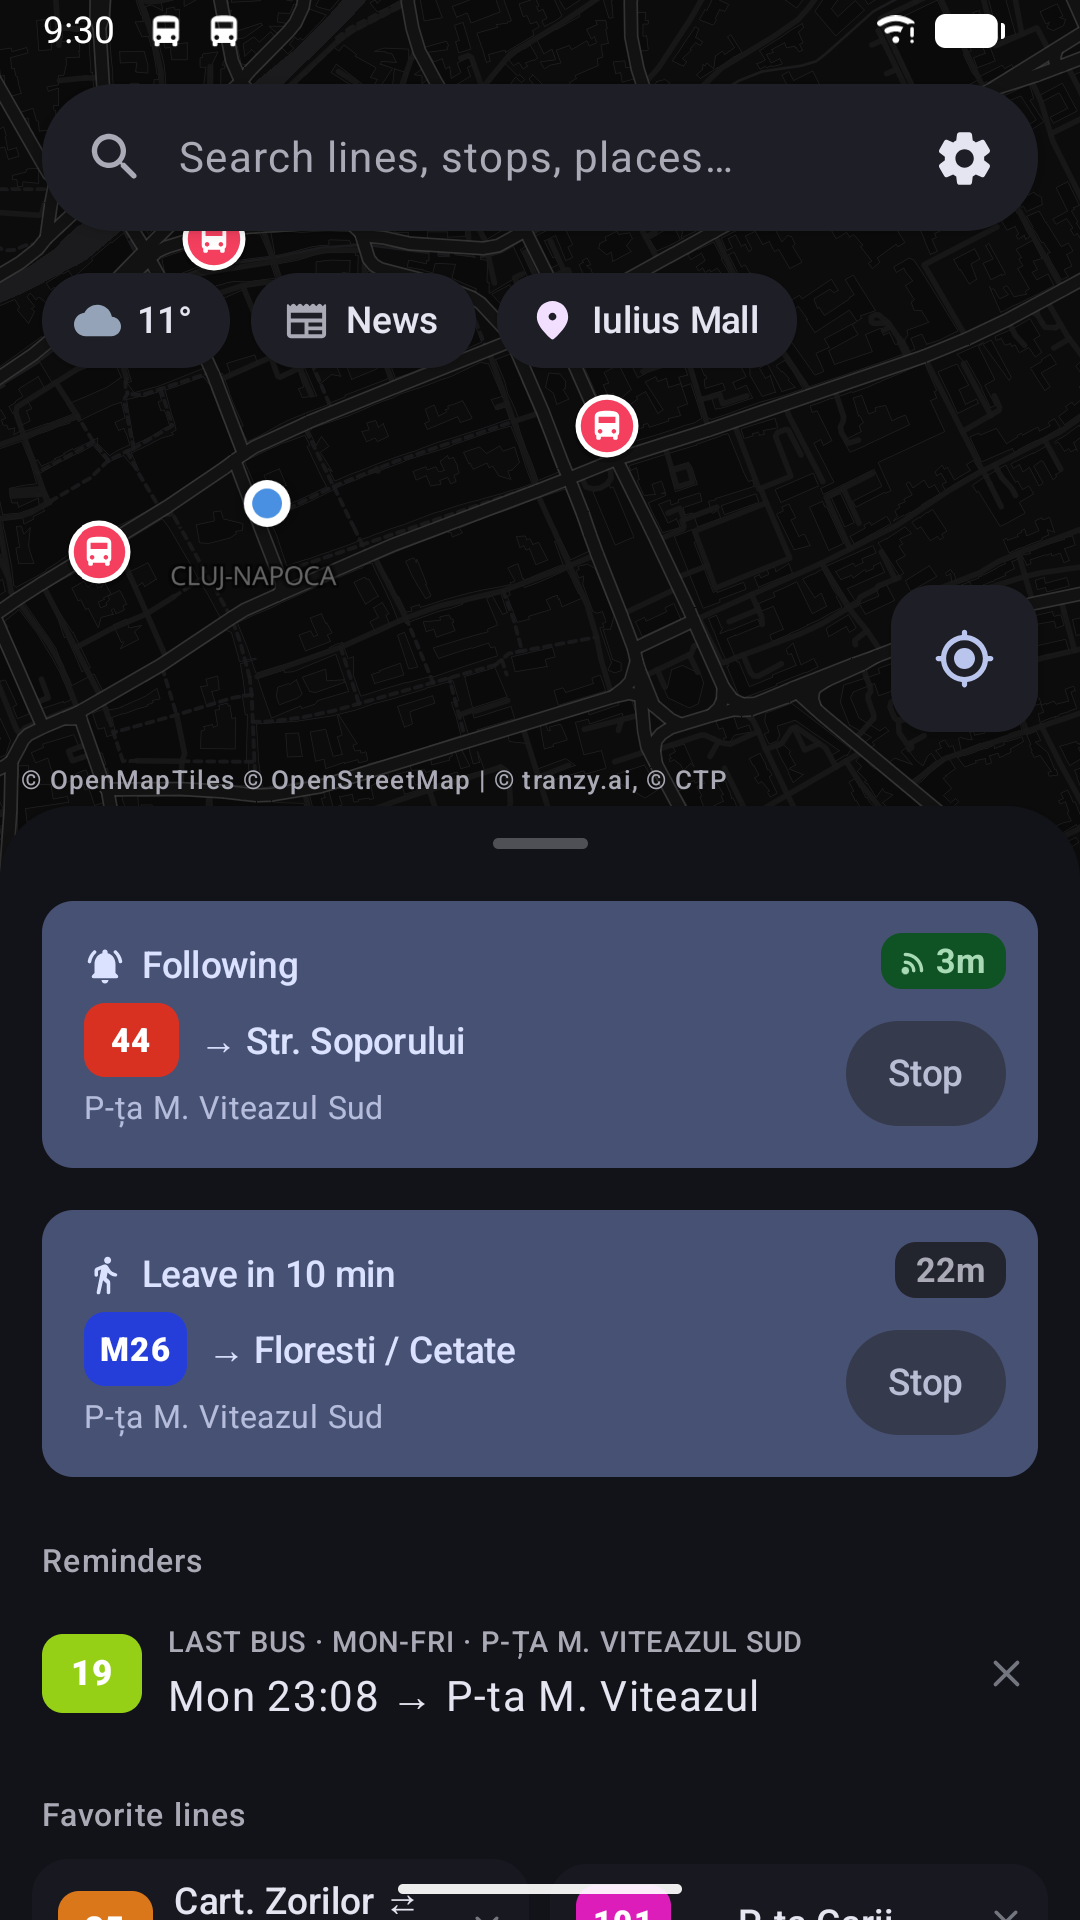
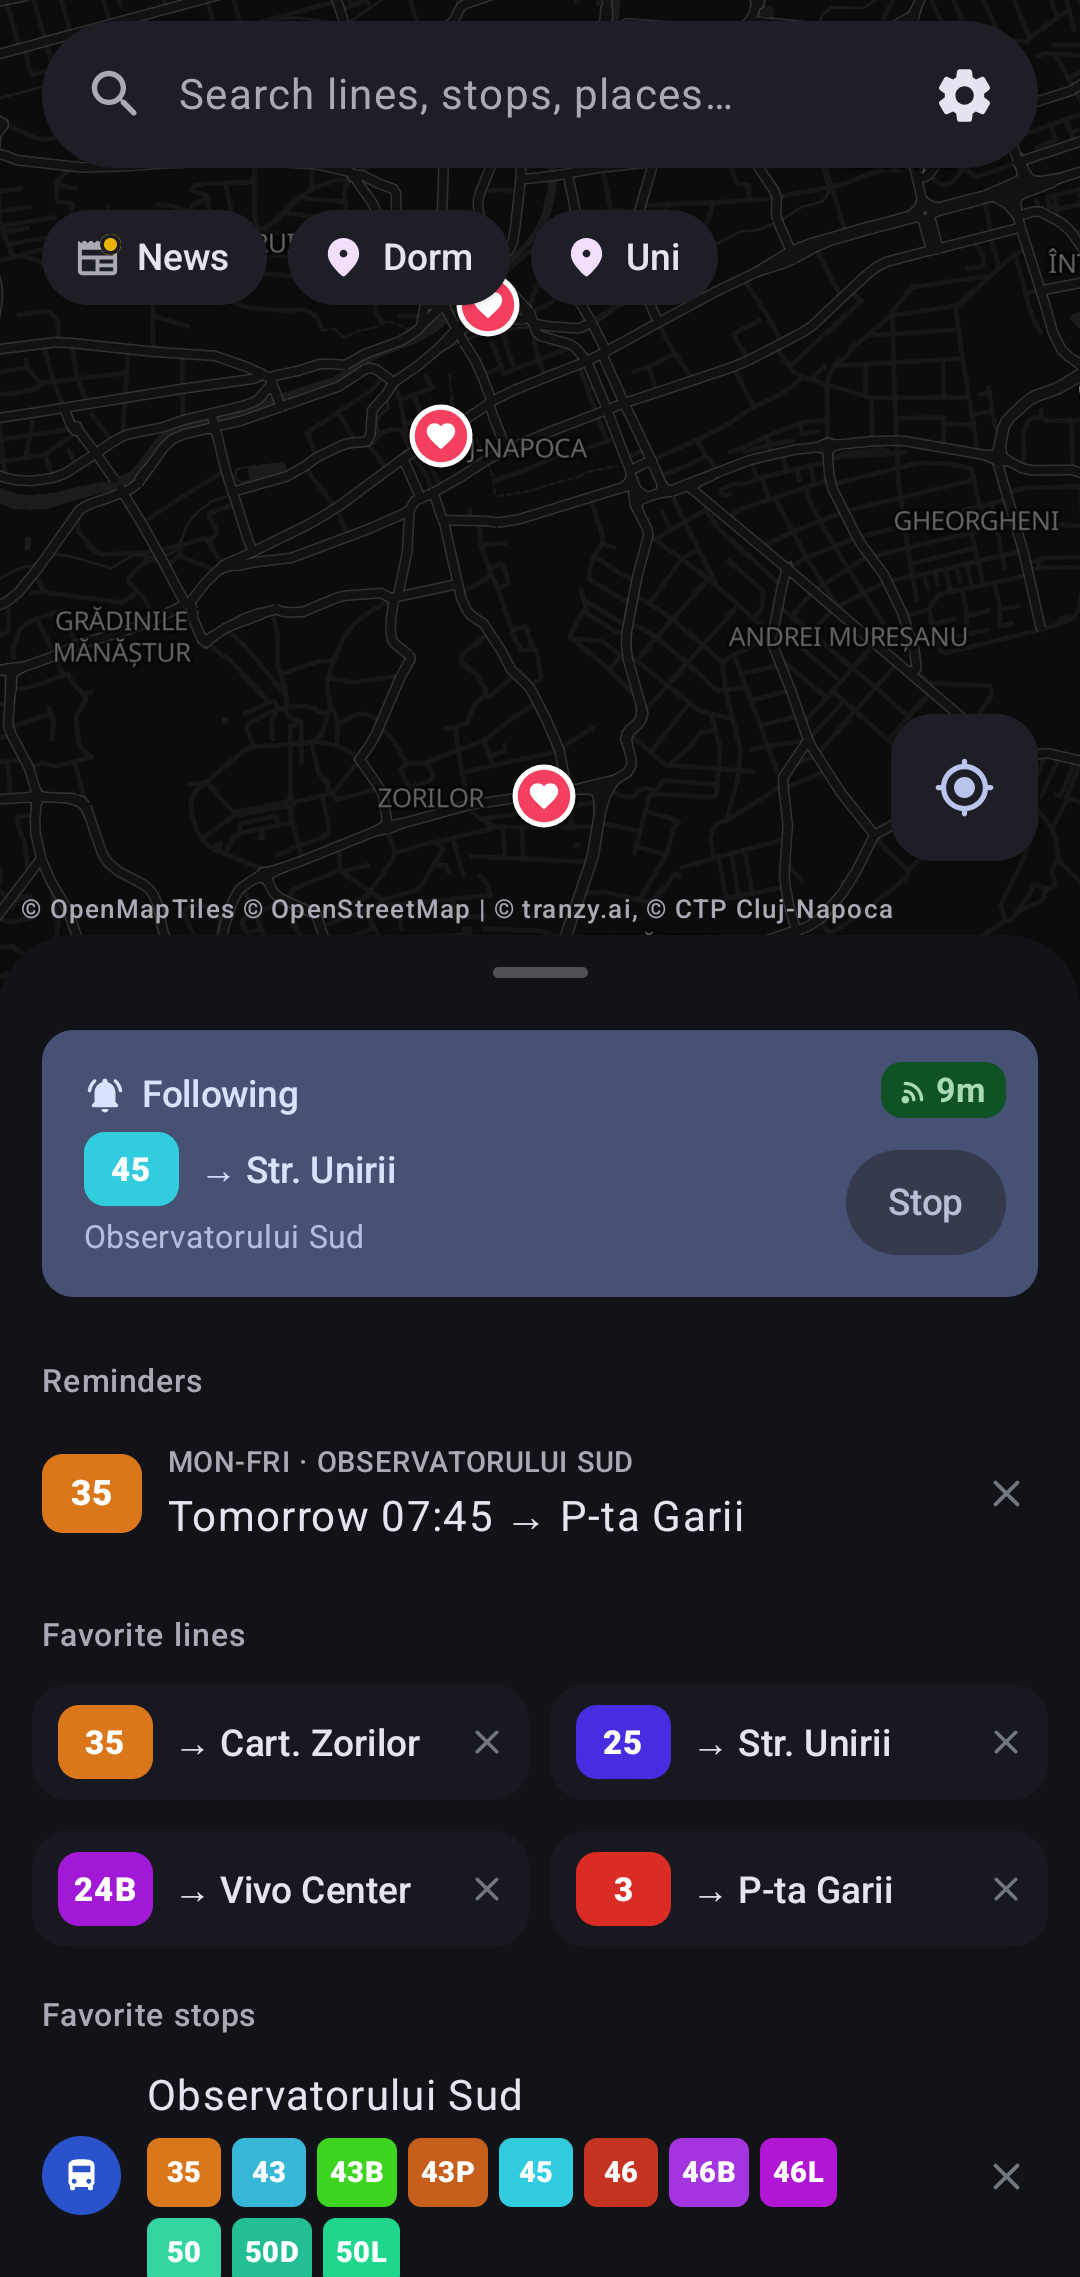
README update

diff --git a/README.md b/README.md
@@ -1,21 +1,22 @@
 # Ce autobuz iau? for Android
 
-The [Ce autobuz iau?](https://github.com/bmarian/conexiuni-cluj) bus and tram tracker as an Android app. Same buses and timetables as the website, but designed for mobile.
+The [Ce autobuz iau?](https://github.com/bmarian/conexiuni-cluj) bus and tram tracker as an Android app, for Cluj-Napoca, București, Iași, Oradea and Constanța. Same buses and timetables as the website, but designed for mobile.
 
 **Join the beta:** [join the testers group](https://groups.google.com/g/conexiuni-cluj-beta), then [get the app on Google Play](https://play.google.com/apps/testing/online.bmarian.bus). Needs Android 8 or newer.
 
 <p align="center">
   <img src="readme/home.png" width="200" alt="Home with a followed bus, a reminder and favorite lines">
-  <img src="readme/stop.png" width="200" alt="Departures from a stop">
+  <img src="readme/stop.png" width="200" alt="Departures from every platform of a metro station">
   <img src="readme/line.png" width="200" alt="A line's stops with the next arrivals">
   <img src="readme/plan.png" width="200" alt="A planned trip">
 </p>
 
 ## What it does
 
-- Every CTP bus and tram on the map, live
+- Live buses, trams and trolleybuses on the map
 - The stops around you and their next buses, on the first screen
 - Departures for any stop. Tracked buses get a live countdown, the rest show the timetable
+- Platforms with the same name are one station, marked with a metro, tram, trolleybus or bus icon in the colour of its lines
 - Full timetables for every line
 - A route planner: leave now, leave at, arrive by, or the last one today
 - Step-by-step guidance for a planned trip, with voice
@@ -24,7 +25,8 @@ The [Ce autobuz iau?](https://github.com/bmarian/conexiuni-cluj) bus and tram tr
 - Favorite stops and lines
 - A home screen widget for a stop
 - Share a place to the app and it plans the trip there
-- A notification when CTP changes a line you follow
+- The operator's news, and a notification when a line you follow changes
+- Pick the city in Settings
 - Works with the [Wear OS app](https://github.com/bmarian/conexiuni-cluj-wearos)
 - Move your favorites and settings to another phone, the website or your watch by scanning a code
 
@@ -61,12 +63,13 @@ Phone version codes are 1xxxx and the watch's 2xxxx. `./gradlew bundleRelease` b
 
 ## Credits
 
-| Source                                                       | Used for                                             |
-| ------------------------------------------------------------ | ---------------------------------------------------- |
-| [Tranzy.ai](https://tranzy.ai/)                              | Live GPS positions and GTFS data for CTP Cluj-Napoca |
-| [CTP Cluj-Napoca](https://www.ctpcj.ro/)                     | Official timetables                                  |
-| [OpenStreetMap](https://www.openstreetmap.org/) contributors | Map data                                             |
-| [OpenFreeMap](https://openfreemap.org/)                      | Map tiles                                            |
-| [MapLibre](https://maplibre.org/)                            | The map                                              |
-| [Photon](https://photon.komoot.io/)                          | Place search                                         |
-| [ZXing](https://github.com/zxing/zxing)                      | QR codes                                             |
+| Source                                                                             | Used for                                                                  |
+| ---------------------------------------------------------------------------------- | ------------------------------------------------------------------------- |
+| [Tranzy.ai](https://tranzy.ai/)                                                    | Live positions, lines and stops for Cluj-Napoca, Iași, Oradea and Constanța |
+| [CTP Cluj-Napoca](https://ctpcj.ro/)                                               | Cluj-Napoca's timetables and news                                         |
+| [gtfs.ro](https://gtfs.ro/)                                                        | Timetables for Iași, Oradea and Constanța                                 |
+| [TPBI](https://tpbi.ro/)                                                           | Lines, timetables, live positions and news for București                  |
+| [OpenStreetMap](https://www.openstreetmap.org/) contributors                       | Map data, walking routes, place search, town and street names             |
+| [OpenFreeMap](https://openfreemap.org/), [OpenMapTiles](https://openmaptiles.org/) | Map tiles                                                                 |
+| [MapLibre](https://maplibre.org/)                                                  | The map                                                                   |
+| [ZXing](https://github.com/zxing/zxing)                                            | QR codes                                                                  |
